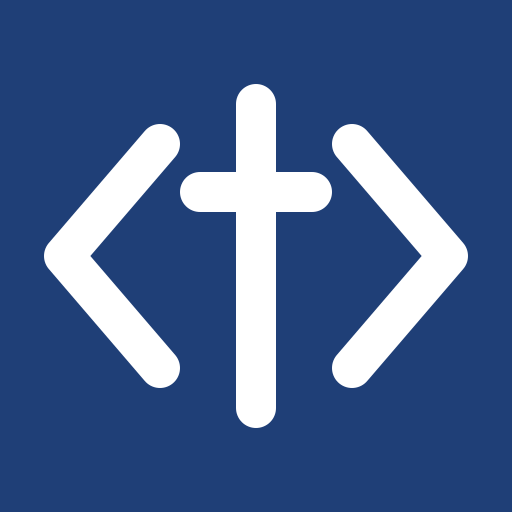
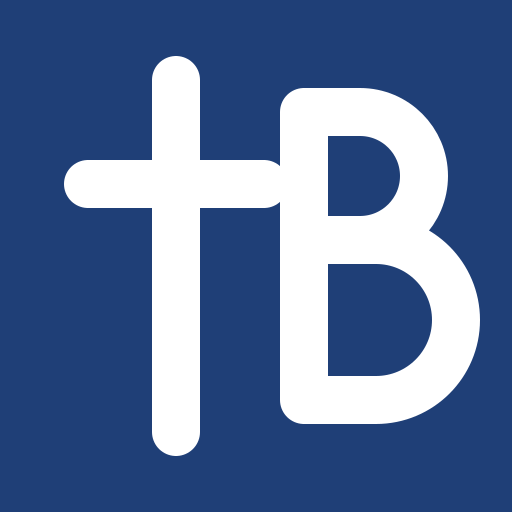
Replace the code-bracket mark with the TB monogram. (#340)
Favicons and the header now use concept B: the T is a cross, small icons come from the tile, and the header swaps the transparent marks with the theme.

diff --git a/static-site/index.html b/static-site/index.html
@@ -25,7 +25,7 @@
 <body>
 <a class="skip-link" href="#top">Skip to content</a>
 <header class="site-header">
-    <a class="brand" href="#top"><img alt="" class="brand-mark brand-mark-light" height="28" src="/images/brand/a1-transparent.svg" width="28"><img alt="" class="brand-mark brand-mark-dark" height="28" src="/images/brand/a1-transparent-dark.svg" width="28">Thon Becker</a>
+    <a class="brand" href="#top"><img alt="" class="brand-mark brand-mark-light" height="28" src="/images/brand/b-transparent.svg" width="28"><img alt="" class="brand-mark brand-mark-dark" height="28" src="/images/brand/b-transparent-dark.svg" width="28">Thon Becker</a>
     <button aria-controls="primary-navigation" aria-expanded="false" aria-label="Open navigation" class="menu-toggle" data-menu-toggle type="button"><span aria-hidden="true">☰</span> Menu</button>
     <nav aria-label="Primary navigation" id="primary-navigation">
         <a href="#about">About</a><a href="#apps">Apps</a><a href="#projects">Projects</a><a href="#contact">Contact</a>

diff --git a/static-site/religious-freedom.html b/static-site/religious-freedom.html
@@ -21,7 +21,7 @@
 <body>
 <a class="skip-link" href="#top">Skip to content</a>
 <header class="site-header">
-    <a class="brand" href="/"><img alt="" class="brand-mark brand-mark-light" height="28" src="/images/brand/a1-transparent.svg" width="28"><img alt="" class="brand-mark brand-mark-dark" height="28" src="/images/brand/a1-transparent-dark.svg" width="28">Thon Becker</a>
+    <a class="brand" href="/"><img alt="" class="brand-mark brand-mark-light" height="28" src="/images/brand/b-transparent.svg" width="28"><img alt="" class="brand-mark brand-mark-dark" height="28" src="/images/brand/b-transparent-dark.svg" width="28">Thon Becker</a>
     <button aria-controls="primary-navigation" aria-expanded="false" aria-label="Open navigation" class="menu-toggle" data-menu-toggle type="button"><span aria-hidden="true">☰</span> Menu</button>
     <nav aria-label="Primary navigation" id="primary-navigation">
         <a href="/#about">About</a><a href="/#apps">Apps</a><a href="/#projects">Projects</a><a href="/#contact">Contact</a>

diff --git a/src/main/resources/templates/booking/fragments.html b/src/main/resources/templates/booking/fragments.html
@@ -4,8 +4,8 @@
 <header th:fragment="navigation(page)" class="booking-site-header">
     <div class="booking-header-inner">
         <a class="booking-brand" href="https://thonbecker.biz">
-            <img alt="" class="booking-brand-mark booking-brand-mark-light" height="28" th:src="@{/images/brand/a1-transparent.svg}" width="28">
-            <img alt="" class="booking-brand-mark booking-brand-mark-dark" height="28" th:src="@{/images/brand/a1-transparent-dark.svg}" width="28">
+            <img alt="" class="booking-brand-mark booking-brand-mark-light" height="28" th:src="@{/images/brand/b-transparent.svg}" width="28">
+            <img alt="" class="booking-brand-mark booking-brand-mark-dark" height="28" th:src="@{/images/brand/b-transparent-dark.svg}" width="28">
             Thon Becker
         </a>
         <button aria-controls="booking-navigation" aria-expanded="false" aria-label="Toggle navigation"
